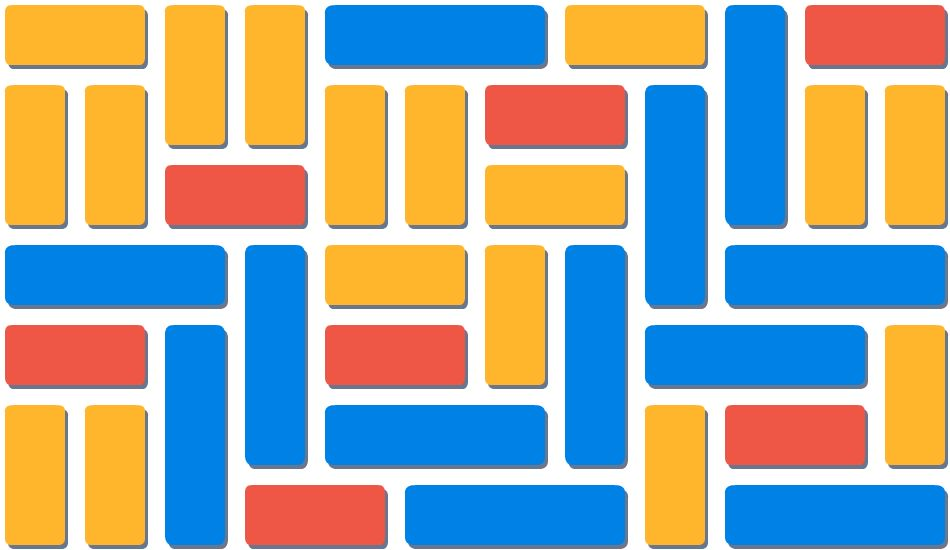
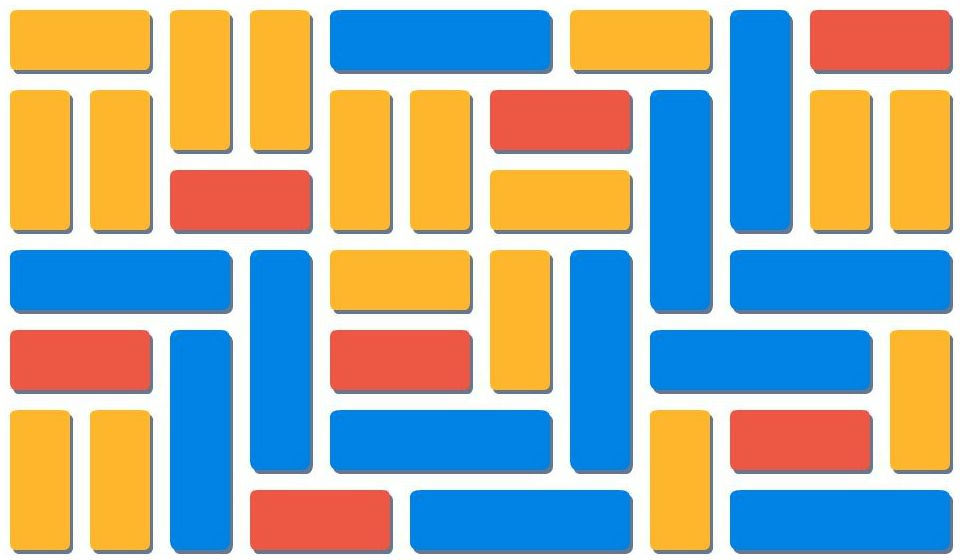
更新背景图片

Changed region(s): [[0.0, 0.0, 1.0, 1.0], [0.58, 0.7418, 0.6105, 0.8036]]

diff --git a/scripts/generator/code_data_generator.js b/scripts/generator/code_data_generator.js
@@ -86,9 +86,10 @@ const code_style_map = (() => {
         }
     }
     code_style_map[CODE.EMPTY]["visibility"] = "hidden"
+    
     return (code) => {
         return code_style_map[code]
-    };
+    }
 })()
 
 const bar_coord_map = (() => {
@@ -106,6 +107,7 @@ const bar_coord_map = (() => {
         [CODE.HL2]: [[0, -1], [0, 0], [0, 1]],
         [CODE.HL3]: [[0, 0], [0, -1], [0, -2]]
     }
+
     return (code) => {
         return bar_coord_map[code]
     }
@@ -136,6 +138,7 @@ const code_direction_map = (() => {
         [CODE.HL2]: directions.horizontal,
         [CODE.HL3]: directions.horizontal
     }
+
     return (code) => {
         return code_direction_map[code]
     }

diff --git a/scripts/pond.css b/scripts/pond.css
@@ -2,7 +2,7 @@ body {
     margin: 0;
     visibility: hidden;
     background-color: #f0f0f2;
-    background-image: url("../static/background.jpg");
+    background: url(../static/background.jpg);
 }
 
 .app {
